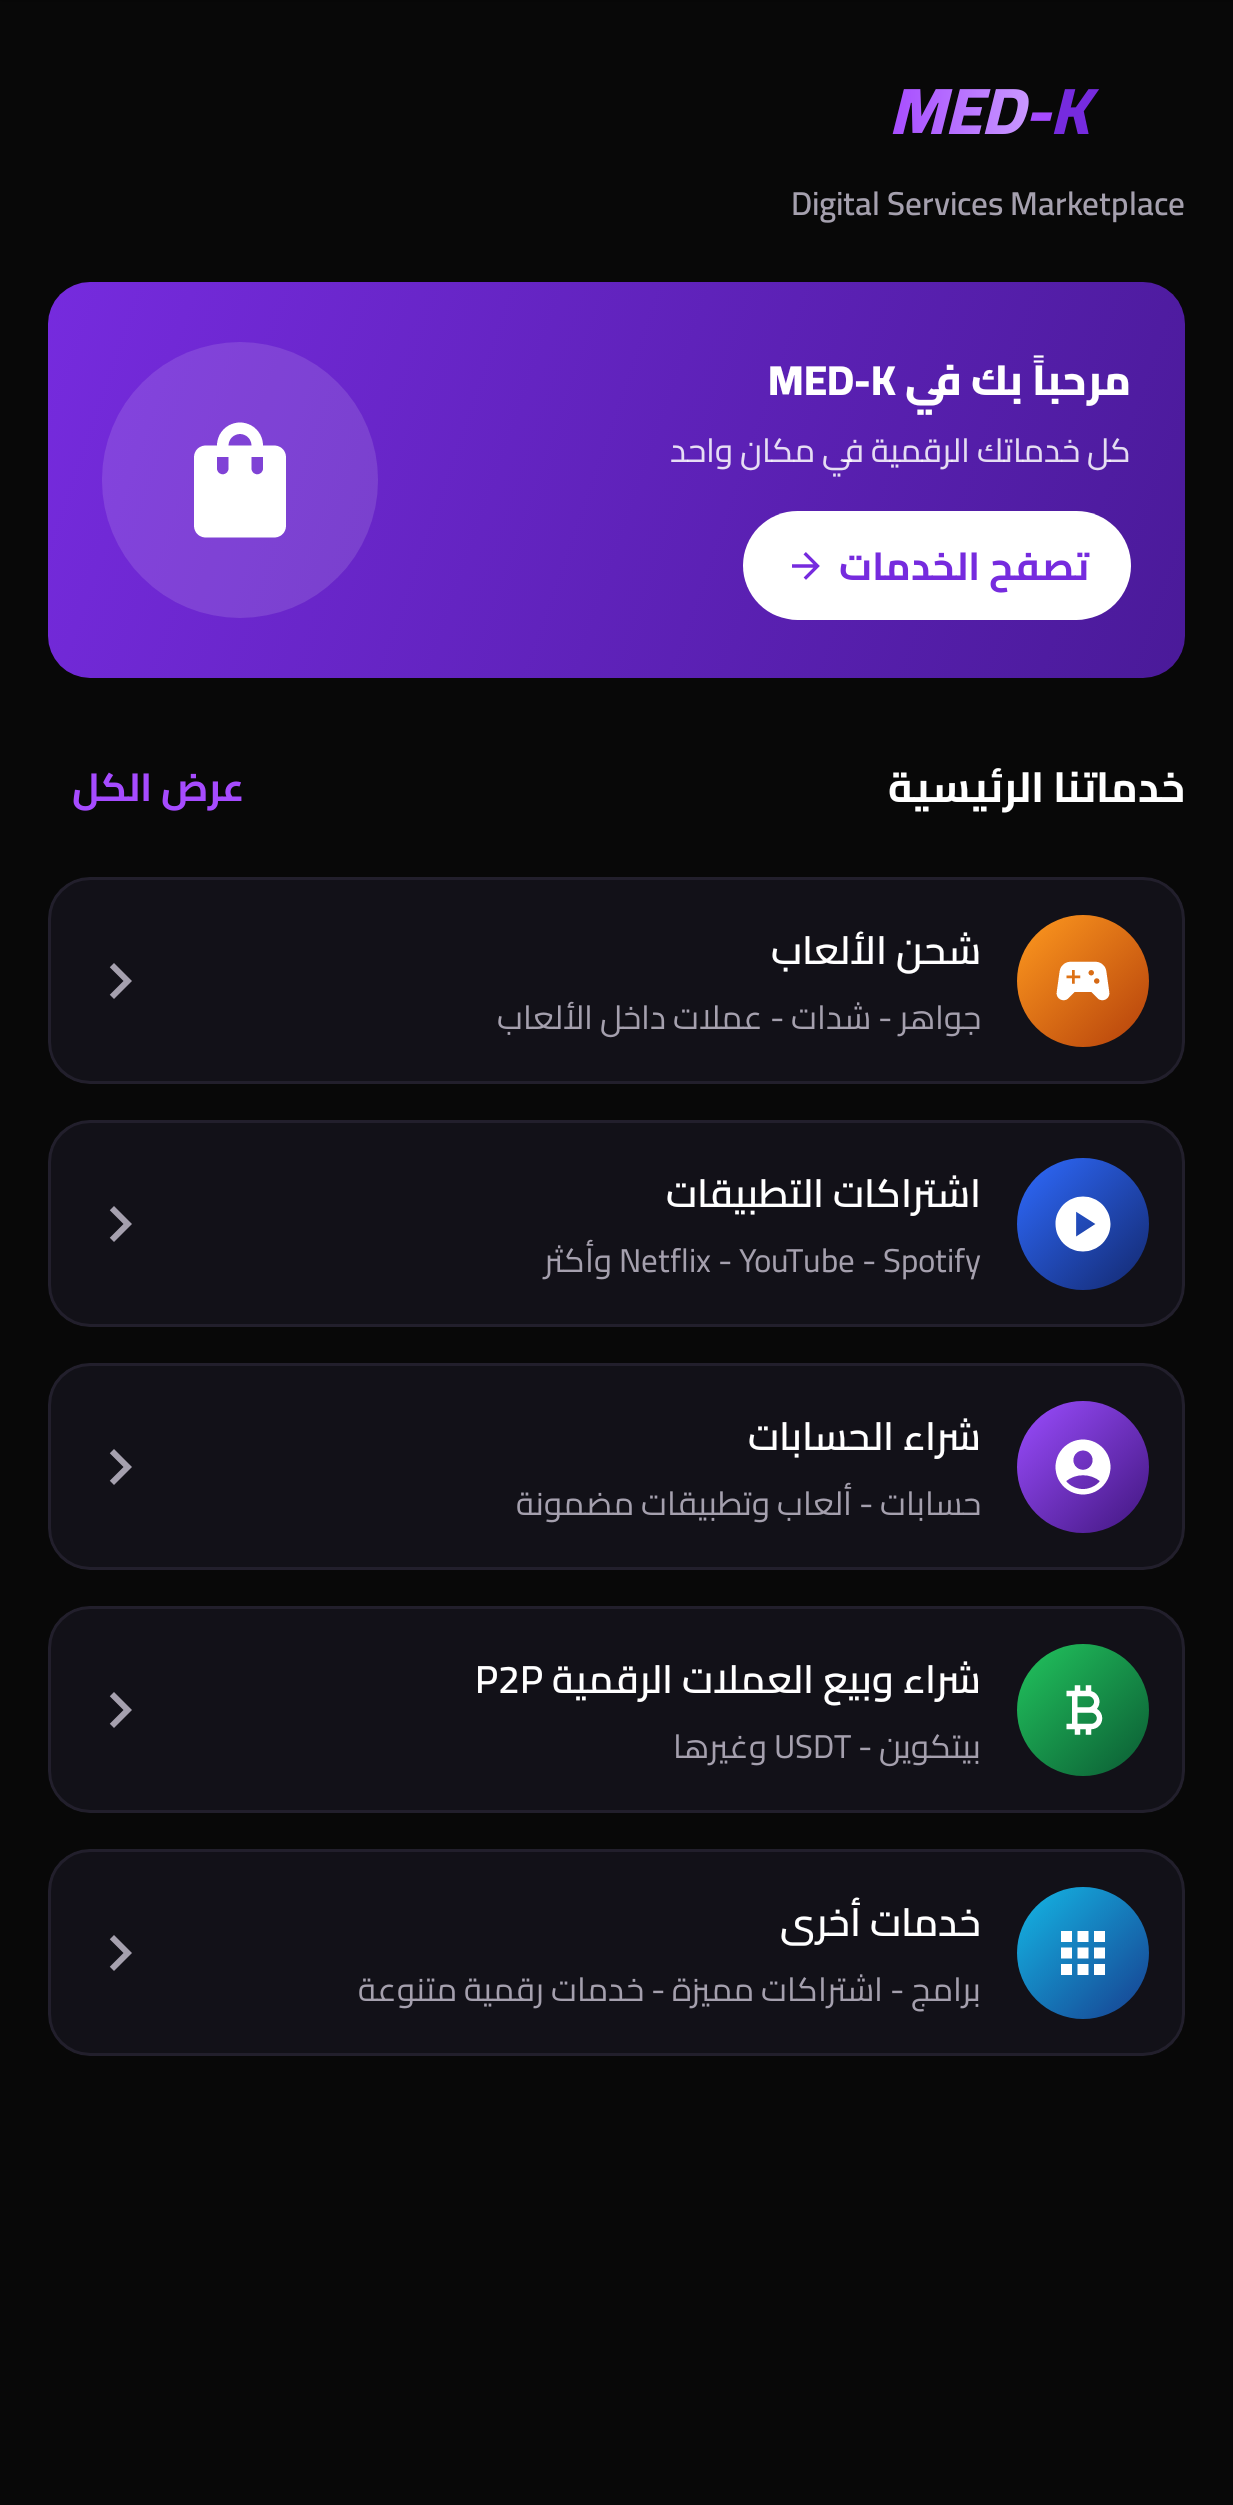
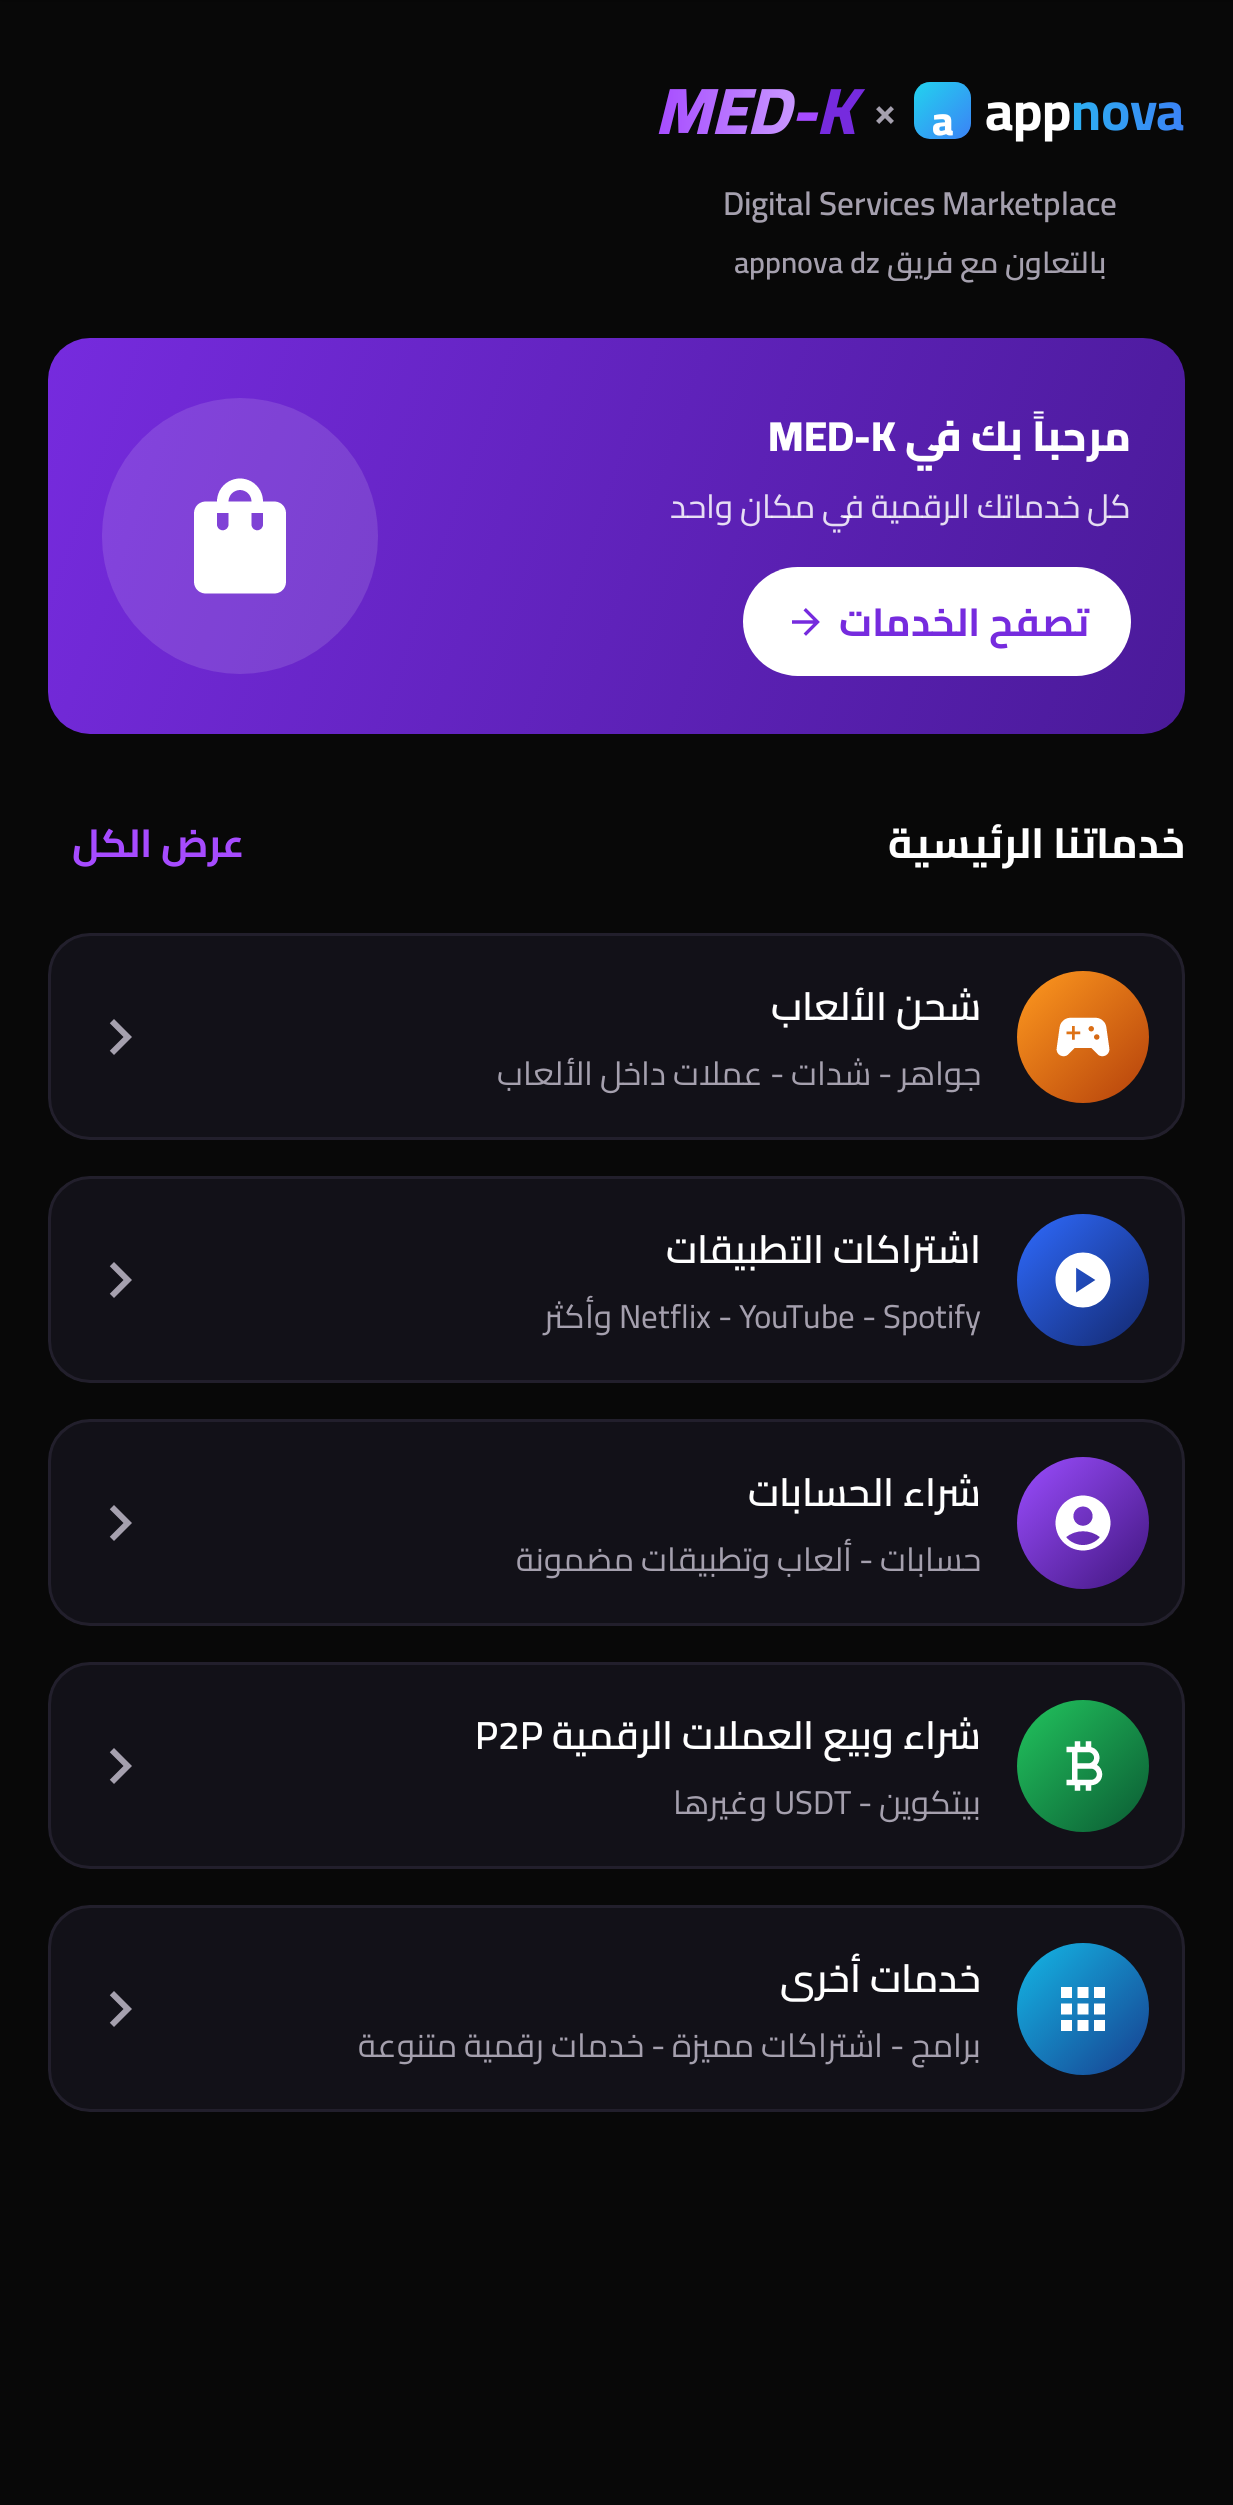
Branding: MED-K × appnova lock-up with 'in collaboration with appnova dz'; retry owner promotion in admin app
Claude-Session: https://claude.ai/code/session_01Dmminv6J6ivYhR2jtxdx3e

diff --git a/app/src/main/java/com/medk/app/ui/components/Common.kt b/app/src/main/java/com/medk/app/ui/components/Common.kt
@@ -77,20 +77,55 @@ import com.medk.app.ui.theme.MedkShapes
 
 // ------------------------------------------------------------------ brand
 @Composable
-fun MedkWordmark(fontSize: TextUnit = 22.sp, subtitle: Boolean = false, modifier: Modifier = Modifier) {
+fun MedkWordmark(fontSize: TextUnit = 22.sp, subtitle: Boolean = false, modifier: Modifier = Modifier, partner: Boolean = true) {
     Column(modifier, horizontalAlignment = Alignment.CenterHorizontally) {
-        Text(
-            buildAnnotatedString {
-                withStyle(SpanStyle(brush = Brush.horizontalGradient(listOf(MedkColors.Violet, Color(0xFFD7B8FF))))) { append("MED") }
-                withStyle(SpanStyle(color = MedkColors.Violet)) { append("-") }
-                withStyle(SpanStyle(color = MedkColors.Purple)) { append("K") }
-            },
-            fontSize = fontSize, fontWeight = FontWeight.ExtraBold, fontStyle = androidx.compose.ui.text.font.FontStyle.Italic,
-            style = MaterialTheme.typography.displaySmall.copy(lineHeight = fontSize * 1.1f),
-        )
+        // brand lock-up always reads left-to-right: MED-K × appnova
+        androidx.compose.runtime.CompositionLocalProvider(androidx.compose.ui.platform.LocalLayoutDirection provides androidx.compose.ui.unit.LayoutDirection.Ltr) {
+        Row(verticalAlignment = Alignment.CenterVertically) {
+            Text(
+                buildAnnotatedString {
+                    withStyle(SpanStyle(brush = Brush.horizontalGradient(listOf(MedkColors.Violet, Color(0xFFD7B8FF))))) { append("MED") }
+                    withStyle(SpanStyle(color = MedkColors.Violet)) { append("-") }
+                    withStyle(SpanStyle(color = MedkColors.Purple)) { append("K") }
+                },
+                fontSize = fontSize, fontWeight = FontWeight.ExtraBold, fontStyle = androidx.compose.ui.text.font.FontStyle.Italic,
+                style = MaterialTheme.typography.displaySmall.copy(lineHeight = fontSize * 1.1f),
+            )
+            if (partner) {
+                Text("  ×  ", fontSize = fontSize * 0.6f, fontWeight = FontWeight.Bold, color = MaterialTheme.colorScheme.onSurfaceVariant)
+                AppNovaMark(fontSize * 0.82f)
+            }
+        }
+        }
         if (subtitle) Text(
             "Digital Services Marketplace",
             style = MaterialTheme.typography.labelMedium, color = MaterialTheme.colorScheme.onSurfaceVariant,
+        )
+        if (partner) Text(
+            "بالتعاون مع فريق appnova dz",
+            style = MaterialTheme.typography.labelSmall, color = MaterialTheme.colorScheme.onSurfaceVariant,
+        )
+    }
+}
+
+/** Partner wordmark: "appnova" (app + nova in a cyan→blue gradient) with a small spark tile. */
+@Composable
+fun AppNovaMark(fontSize: TextUnit = 18.sp, modifier: Modifier = Modifier) {
+    Row(modifier, verticalAlignment = Alignment.CenterVertically) {
+        val tile = (fontSize.value * 1.05f).dp
+        Box(Modifier.size(tile).clip(androidx.compose.foundation.shape.RoundedCornerShape(tile * 0.28f))
+            .background(Brush.linearGradient(listOf(Color(0xFF22D3EE), Color(0xFF3B82F6)))), contentAlignment = Alignment.Center) {
+            Text("a", color = Color.White, fontWeight = FontWeight.ExtraBold, fontSize = fontSize * 0.75f,
+                style = MaterialTheme.typography.titleMedium.copy(lineHeight = fontSize * 0.8f))
+        }
+        Spacer(Modifier.width((fontSize.value * 0.25f).dp))
+        Text(
+            buildAnnotatedString {
+                withStyle(SpanStyle(color = MaterialTheme.colorScheme.onSurface)) { append("app") }
+                withStyle(SpanStyle(brush = Brush.horizontalGradient(listOf(Color(0xFF22D3EE), Color(0xFF3B82F6))))) { append("nova") }
+            },
+            fontSize = fontSize, fontWeight = FontWeight.Bold,
+            style = MaterialTheme.typography.titleMedium.copy(lineHeight = fontSize * 1.1f),
         )
     }
 }

diff --git a/app/src/main/java/com/medk/app/data/AuthRepository.kt b/app/src/main/java/com/medk/app/data/AuthRepository.kt
@@ -85,7 +85,8 @@ open class AuthRepository(private val c: AppContainer) {
             snap = ref.get(com.google.firebase.firestore.Source.SERVER).await()
         } else if (snap.getString("role") == "customer" && verified && acceptInvite(snap)) {
             snap = ref.get(com.google.firebase.firestore.Source.SERVER).await()
-        } else if (snap.getString("role") == "customer" && verified && !isOwnerProbeDone(user.uid)) {
+        } else if (snap.getString("role") == "customer" && verified && (!isOwnerProbeDone(user.uid) || com.medk.app.BuildConfig.ADMIN_APP)) {
+            // (admin app: retried at every start so a newly added owner e-mail is promoted even after earlier sign-ins)
             // owner who signed up with a password: promoted once the e-mail is verified (rules check the list)
             runCatching { ref.update(mapOf("role" to "owner", "perms" to OWNER_PERMS, "updatedAt" to FieldValue.serverTimestamp())).await() }
             ownerProbeDone(user.uid)
